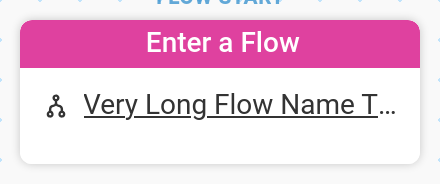
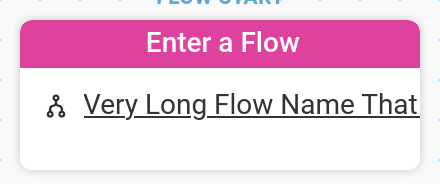
Fix Enter Flow action not opening edit dialog when clicking empty space
The .linked-name container used display:flex which made it block-level,
filling the full width of the action body. Clicking empty space to the
right of the flow name was still inside .linked-name, causing isActiveLink()
to return true and skip edit dialog handling. Changed to display:inline-flex
so the container only occupies the width of its contents. Also fixed the
invalid CSS property items-align to align-items.

Changed region(s): [[0.0591, 0.8696, 0.9455, 0.9239], [0.8568, 0.5163, 0.975, 0.6522]]

diff --git a/src/flow/utils.ts b/src/flow/utils.ts
@@ -129,7 +129,10 @@ const renderFlowLink = (flow: NamedObject, icon?: string) => {
     }
   };
 
-  return html`<div class="linked-name" style="display:flex;items-align:center;">
+  return html`<div
+    class="linked-name"
+    style="display:inline-flex;align-items:center;"
+  >
     ${icon
       ? html`<temba-icon name=${icon} style="margin-right:0.5em"></temba-icon>`
       : null}
